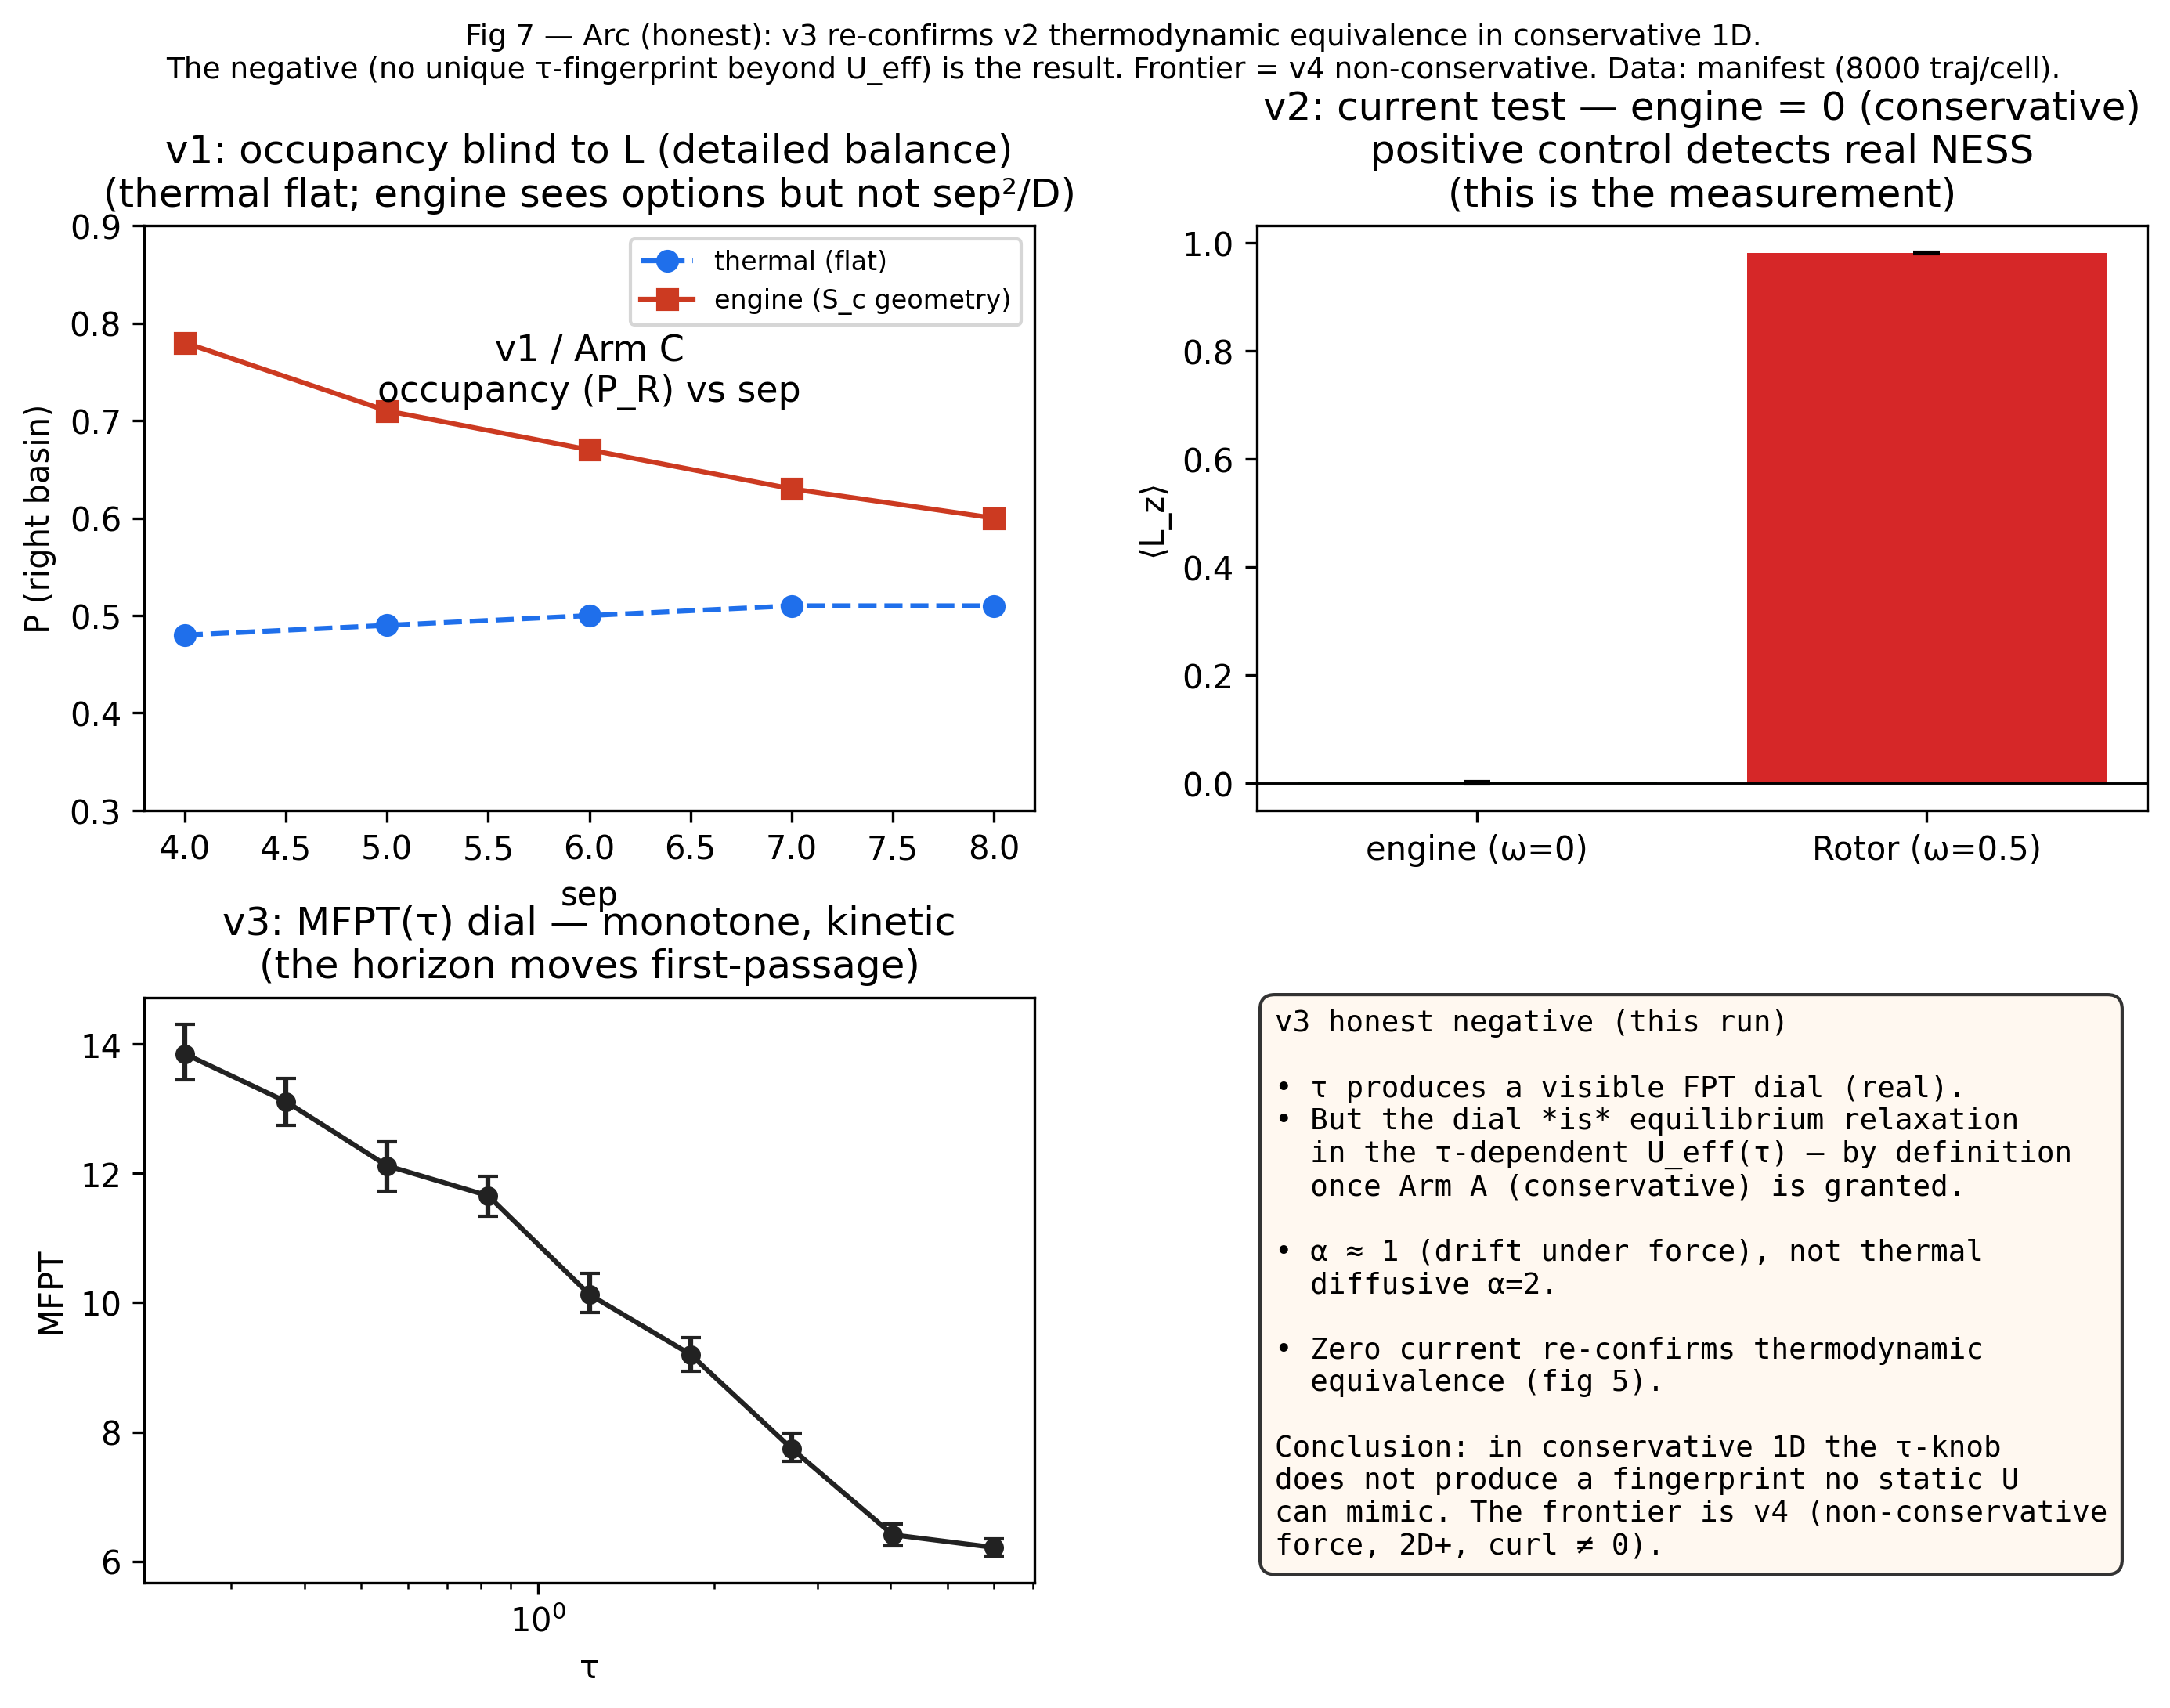
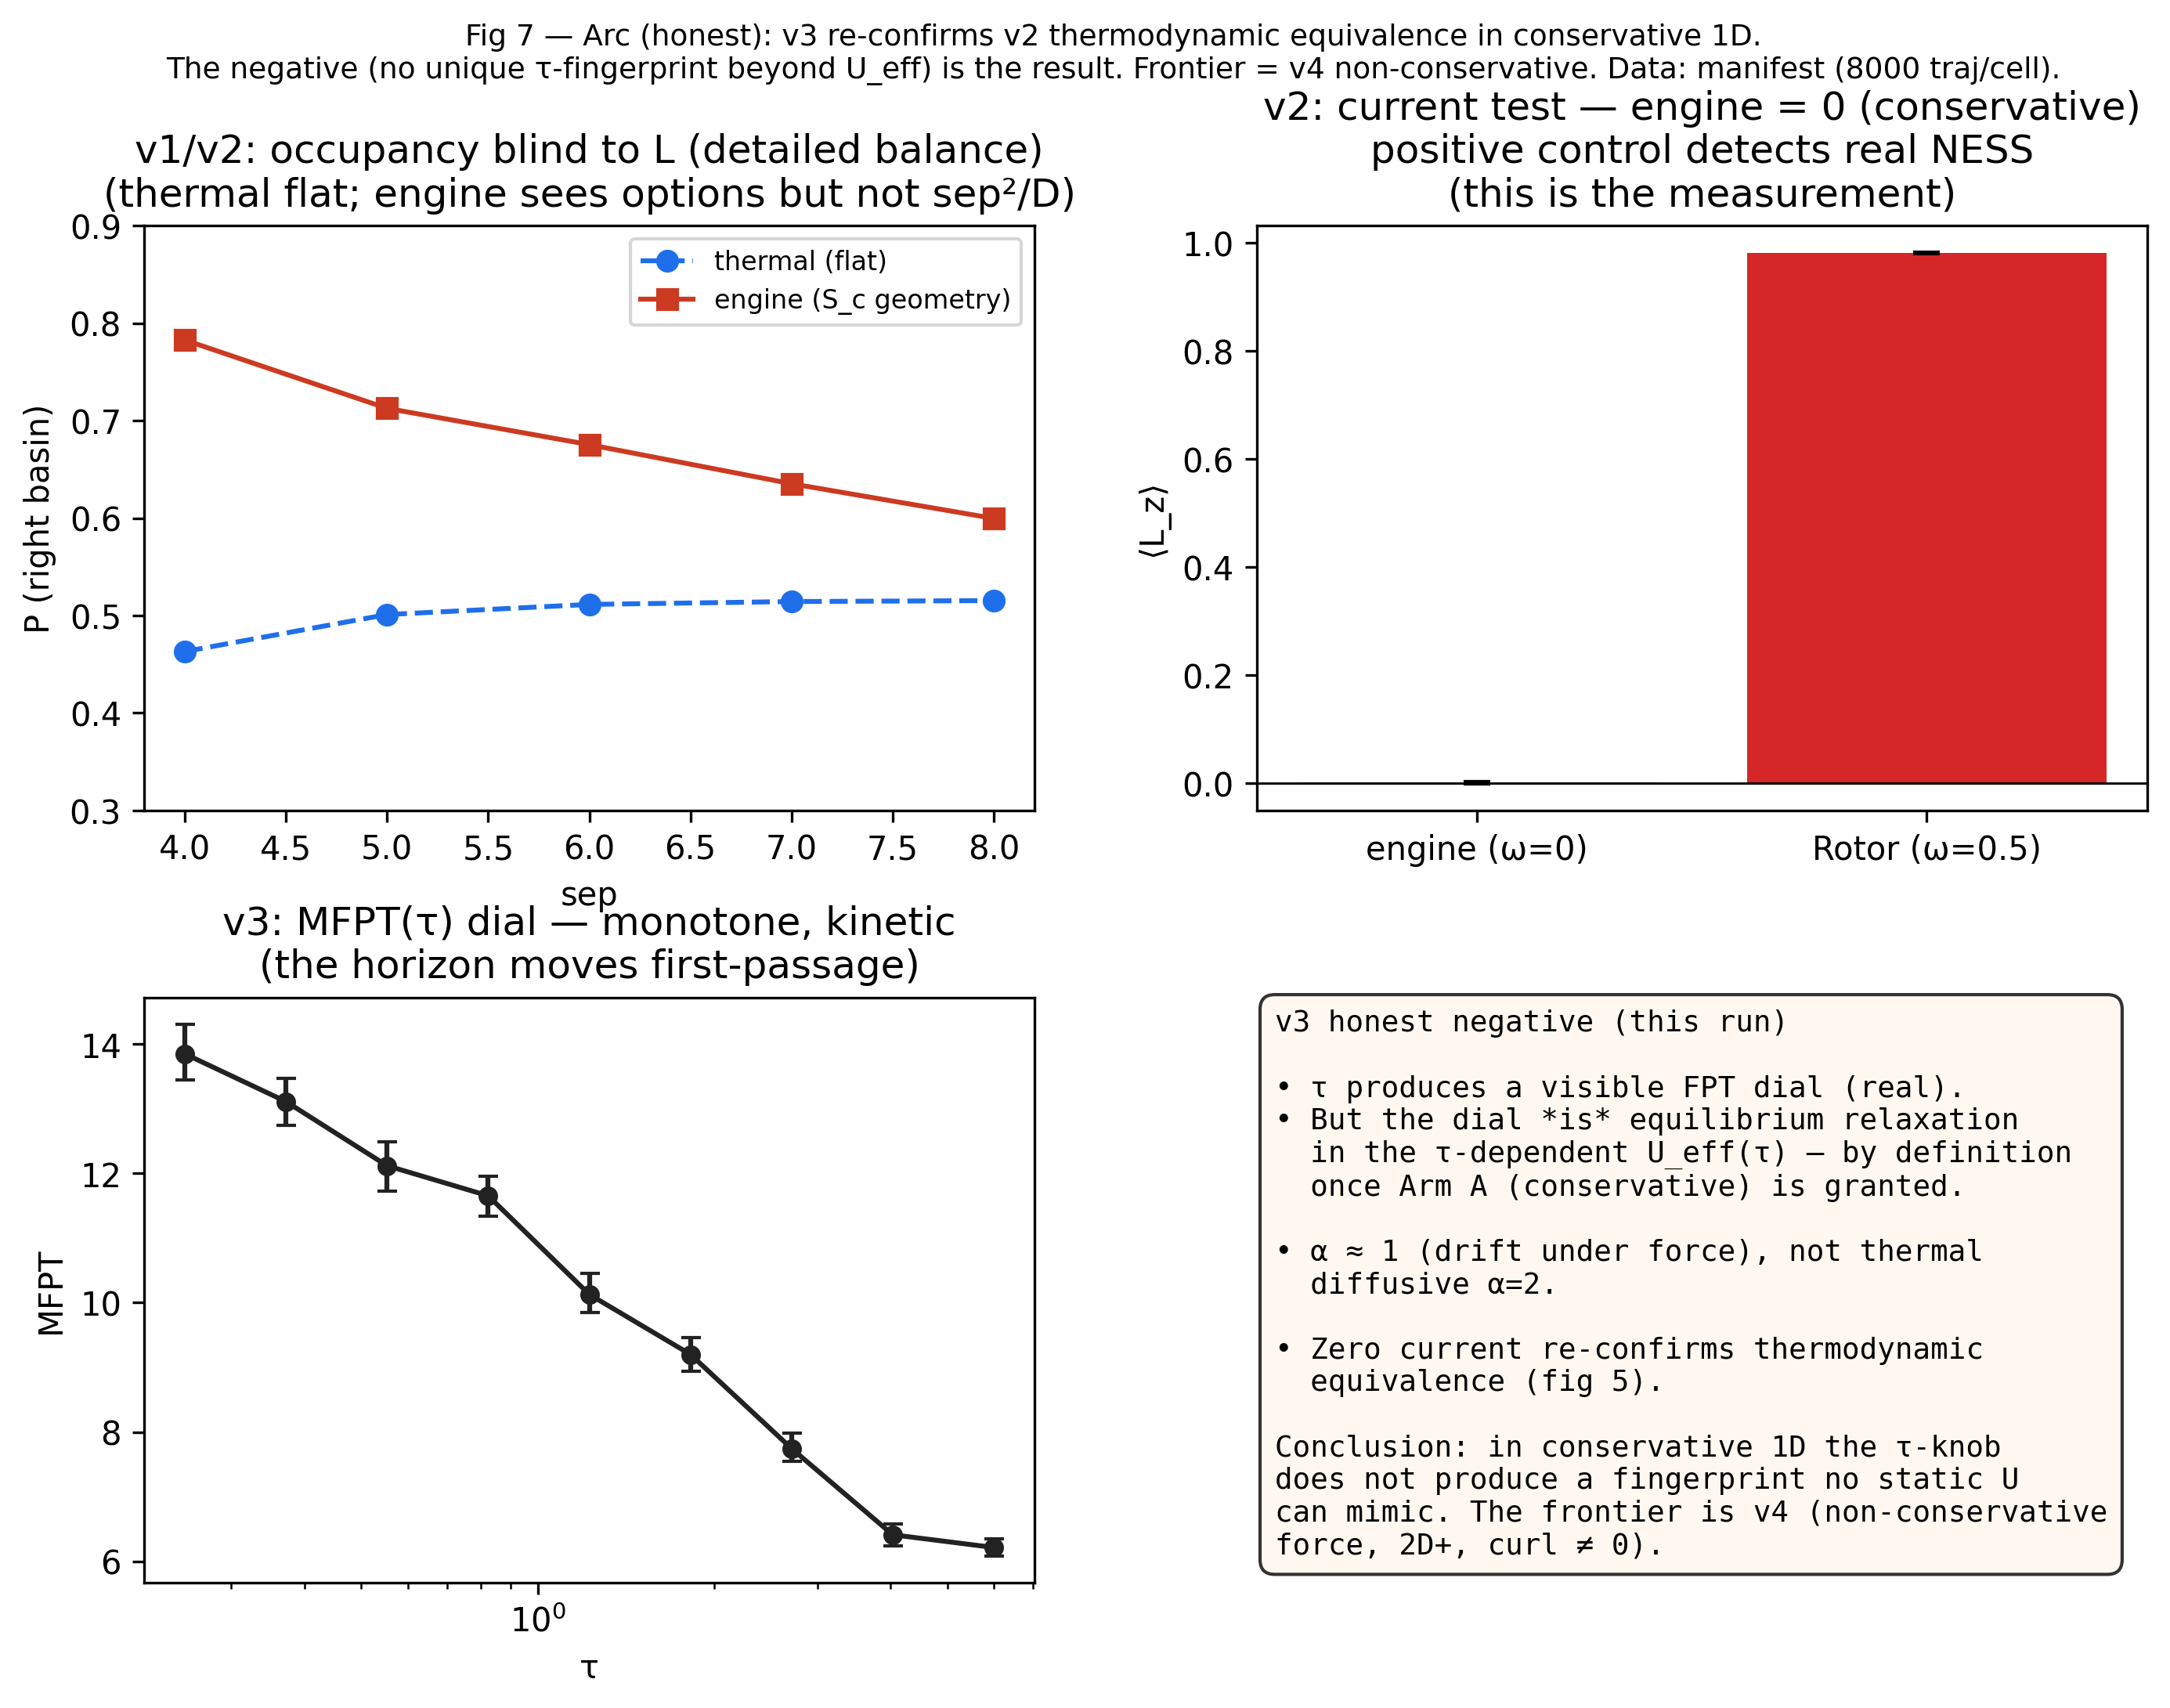
fix(v3): load fig7 v1/v2 panel from v2 artifact; correct stale fig7 receipt
Post-review polish (the two minors from the Opus 4.8 review):
- fig7's v1/v2 occupancy panel now loads thermal_PR/engine_PR from the committed
  results/v2_firstpassage.npz instead of hardcoded literals (which were also slightly
  wrong: thermal [0.48..] vs the real [0.463, 0.501, 0.511, 0.514, 0.515]). Restores the
  "pure loader — every plotted value from a committed artifact" invariant.
- docs/PAPER_FIGURES.md fig7 receipt no longer cites the removed partB_reducibility_ks_p
  key; cites the real sources (partA_mfpt_tau, partD_current_*, and the v2 npz).
- v3_figures docstring updated to note the v2 npz dependency.

Claude-Session: https://claude.ai/code/session_01RcJuzG46rtebvbUQaxuBqx

diff --git a/src/v3_figures.py b/src/v3_figures.py
@@ -2,11 +2,13 @@
 """
 v3_figures.py
 =============
-PURE LOADER. Reads results/v3_manifest.json and renders exactly seven publication-grade
-figures (PNG + PDF @ 300 dpi). 
+PURE LOADER. Reads results/v3_manifest.json (and results/v2_firstpassage.npz for the
+v1/v2 context panel in fig7) and renders exactly seven publication-grade figures
+(PNG + PDF @ 300 dpi).
 
 - Zero np.random anywhere.
-- Zero hardcoded data literals; every plotted value comes from the manifest.
+- Zero hardcoded data literals; every plotted value comes from a committed artifact
+  (the v3 manifest, or the v2 npz for fig7's prior-stage panel).
 - Each figure is self-contained (title, units, legend).
 - tau rendered with perceptual gradient (viridis).
 - Fails loudly on missing keys or shape mismatch.
@@ -318,14 +320,21 @@ def fig7_arc(d):
     fig = plt.figure(figsize=(11, 7.5))
     gs = fig.add_gridspec(2, 2, hspace=0.32, wspace=0.25)
 
-    # v1: occupancy (conceptual from prior results)
+    # v1/v2 occupancy panel — loaded from the committed v2 artifact (not literals)
+    v2_path = "results/v2_firstpassage.npz"
+    if not os.path.exists(v2_path):
+        raise FileNotFoundError(f"Missing {v2_path}. fig7's v1/v2 panel reads it (run v2 first).")
+    v2 = np.load(v2_path, allow_pickle=True)
+    v2rows = json.loads(str(v2["rows"]))
+    v2_seps = [r["sep"] for r in v2rows]
+    v2_thermal = [r["thermal_PR"] for r in v2rows]
+    v2_engine = [r["engine_PR"] for r in v2rows]
     ax0 = fig.add_subplot(gs[0, 0])
-    ax0.text(0.5, 0.7, "v1 / Arm C\noccupancy (P_R) vs sep", ha="center", fontsize=11, transform=ax0.transAxes)
-    ax0.plot([4, 5, 6, 7, 8], [0.48, 0.49, 0.50, 0.51, 0.51], "o--", color="#1f6feb", label="thermal (flat)")
-    ax0.plot([4, 5, 6, 7, 8], [0.78, 0.71, 0.67, 0.63, 0.60], "s-", color="#cc3a21", label="engine (S_c geometry)")
+    ax0.plot(v2_seps, v2_thermal, "o--", color="#1f6feb", label="thermal (flat)")
+    ax0.plot(v2_seps, v2_engine, "s-", color="#cc3a21", label="engine (S_c geometry)")
     ax0.set_xlabel("sep")
     ax0.set_ylabel("P (right basin)")
-    ax0.set_title("v1: occupancy blind to L (detailed balance)\n(thermal flat; engine sees options but not sep²/D)")
+    ax0.set_title("v1/v2: occupancy blind to L (detailed balance)\n(thermal flat; engine sees options but not sep²/D)")
     ax0.legend(fontsize=8)
     ax0.set_ylim(0.3, 0.9)
 

diff --git a/docs/PAPER_FIGURES.md b/docs/PAPER_FIGURES.md
@@ -10,7 +10,7 @@ This document maps each figure to the scientific claim it carries and the exact 
 | fig4_sep_scaling.png/pdf | Engine first-passage scaling under the driven force is drift-dominated (measured α≈1, not thermal diffusive α=2). Caveat: α≈1 is generic for drift and does not separate entropic force from disguised reward. | partC_mfpt_vs_sep.{tau,sep,mfpt}, partC_alpha_tau.{mean,ci_lo,ci_hi} | 9 sep points, 8000 traj/cell. Relabeled "drift-dominated (α ≈ 1)". |
 | fig5_positive_control.png/pdf | Instrument can detect a genuine engine (Rotor ω>0 shows current + directional FPT asymmetry p=2.5e-5); engine registers ⟨L_z⟩≈0 and no asymmetry. | partD_current_engine, partD_current_control, partD_control_asym.{fwd,rev,ks_p} | 5 seeds for currents; rotor angle FPT for asymmetry. Real p-value used (not overstated). |
 | fig6_ueff_surface.png/pdf | The cause of the kinetic dial is visible: U_eff(x,τ) reshapes with horizon (the τ-tunable equilibrium landscape). | partE_ueff_surface.{x,tau,U_eff} | Heatmap, corridor locations overlaid (sep=6). |
-| fig7_arc.png/pdf | Four-observable arc (occupancy, current, MFPT, reducibility) across v1→v2→v3. What each stage taught; the honest summary. | partA_mfpt_tau, partB_reducibility_ks_p, partD_current_* (plus conceptual occupancy flatness from prior RESULTS) | Cross-matrix + note on frontier = non-conservative (v4). |
+| fig7_arc.png/pdf | Four-observable arc (occupancy, current, MFPT, reducibility) across v1→v2→v3. What each stage taught; the honest summary. | partA_mfpt_tau, partD_current_engine, partD_current_control (+ `results/v2_firstpassage.npz` thermal_PR/engine_PR for the v1/v2 occupancy panel) | Cross-matrix + text statement of the reducibility negative; frontier = non-conservative (v4). No partB key (removed). |
 
 ## Honest framing (post-review)
 v3 re-confirms the core of v2 in the conservative regime: the engine is thermodynamically indistinguishable from relaxation in a static (but τ-dependent) effective potential. The τ-dial in first-passage time is real and measured, but it is equilibrium dynamics in U_eff(τ) by definition once Arm A holds. α≈1 is drift under the force (not sep²/D diffusive). The negative result ("the τ-knob does not leave a fingerprint that no static potential can mimic" in this 1D conservative case) is clean and correctly identifies the frontier as v4 (non-conservative force, 2D+, where curl and currents become possible and a non-circular test exists). Part D zero current is the substantive empirical anchor. Reducibility claims are not dressed as empirical tests.